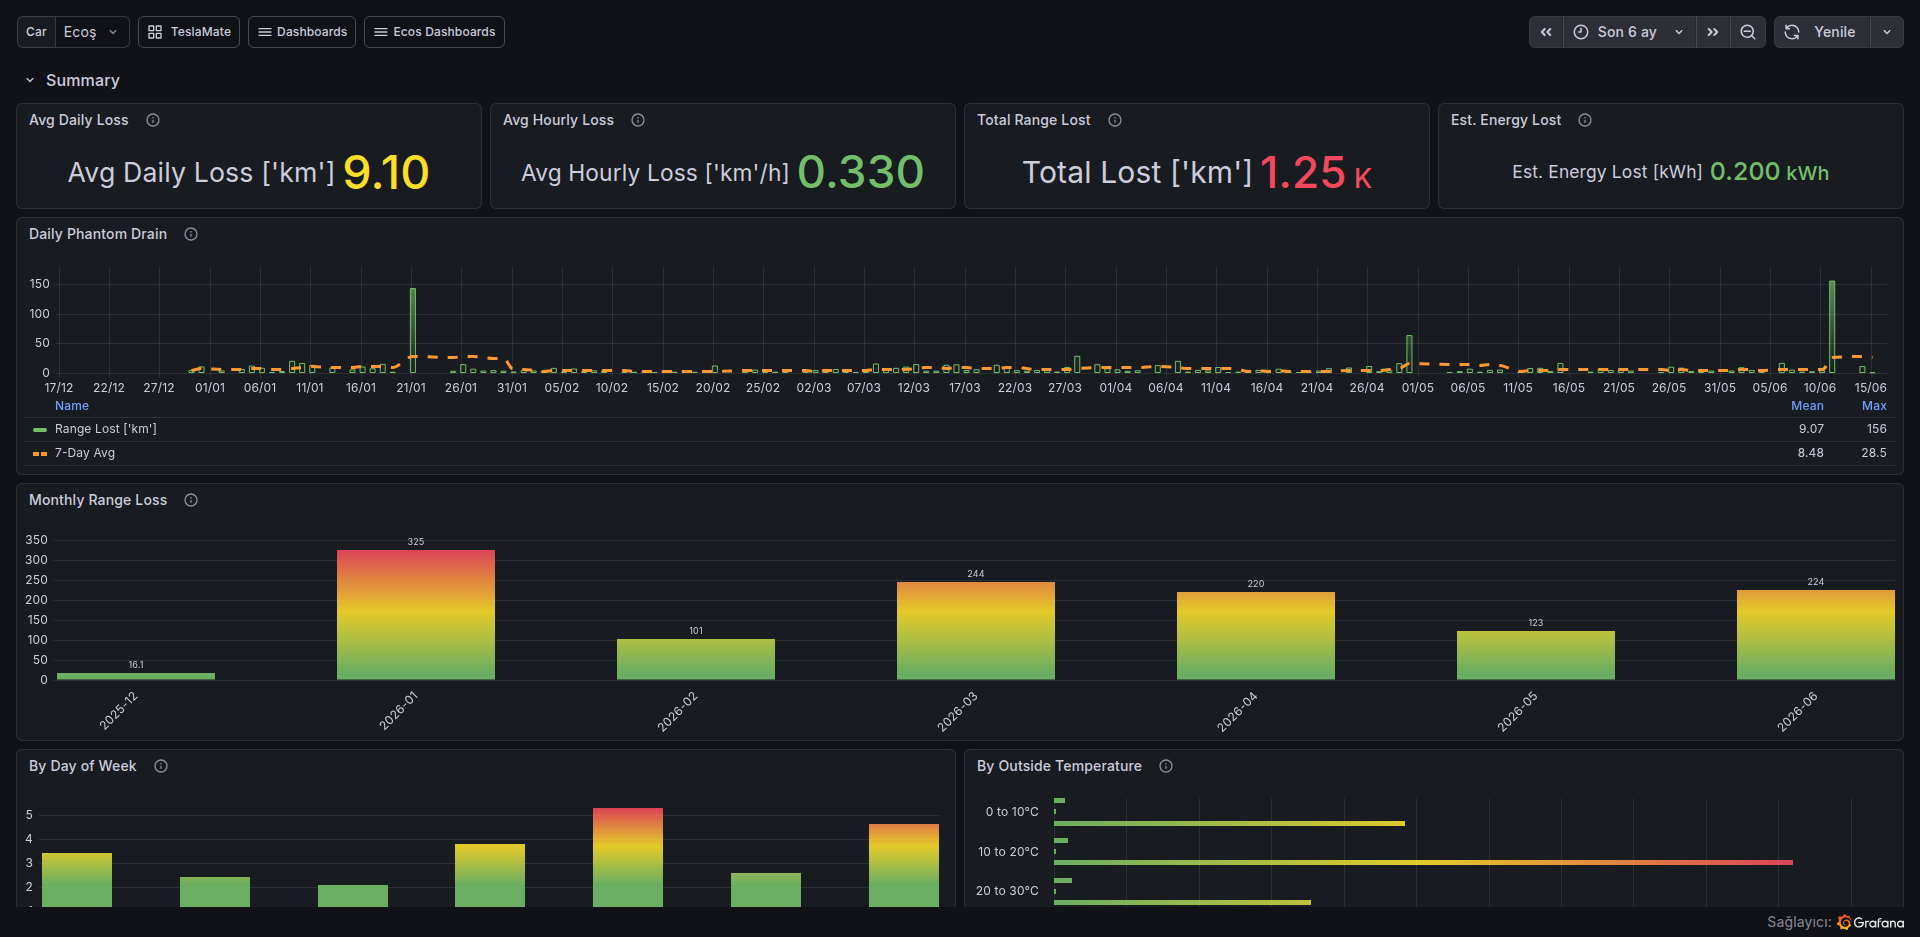
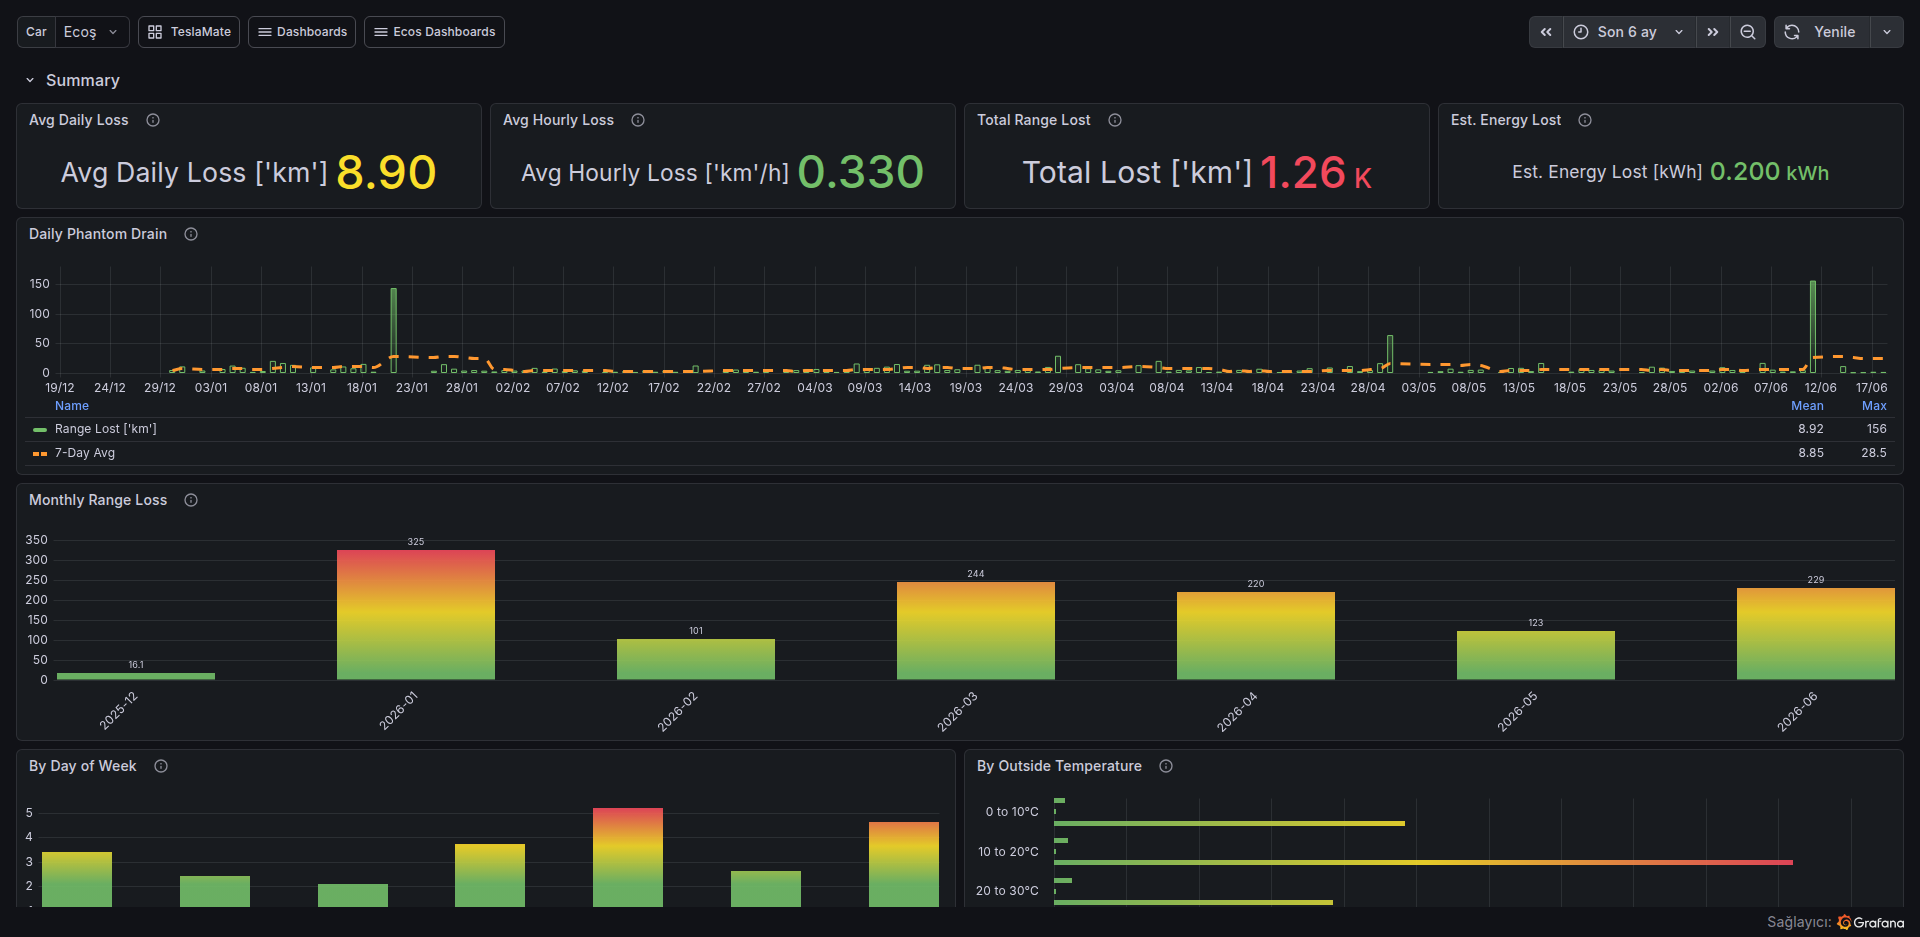
docs: update Phantom Drain README and screenshot with 18 panels

Changed region(s): [[0.0312, 0.3095, 0.9688, 0.4333], [0.0312, 0.1547, 0.25, 0.2166]]

diff --git a/README.md b/README.md
@@ -11,7 +11,7 @@ Each dashboard is a separate, focused view:
 
 | Dashboard | Panels | Purpose |
 |-----------|--------|---------|
-| **Phantom Drain** | 9 | Range and energy lost while parked, patterns by day-of-week and temperature |
+| **Phantom Drain** | 18 | Range and energy lost while parked, patterns by day-of-week and temperature, worst days, vehicle state timeline, seasonal comparison |
 | **Battery Capacity & Degradation** | 20 | Real kWh capacity estimation, degradation tracking, temperature/charger-type impact, projected range |
 | **Charging Efficiency & Details** | 15 | Charging efficiency, AC vs DC breakdowns, deep vs shallow charging, efficiency vs temperature, monthly stats, duration/SOC analysis, top/bottom sessions |
 | **Charging Habits** | 12 | Charging Pattern donut, Day/Hour heatmap, AC/DC energy trend, cost analysis, idle time, location breakdown |
@@ -33,8 +33,15 @@ Each dashboard is a separate, focused view:
 | Daily Phantom Drain | Time Series | Range lost between drives daily, with 7-day moving average |
 | Monthly Total Range Loss | Bar Chart | Bar chart comparing total loss per month |
 | Phantom Drain by Day of Week | Bar Chart | Average drain broken down by weekday |
-| Phantom Drain vs Outside Temperature | Heatmap | Correlation between temperature and drain rate |
+| Phantom Drain vs Outside Temperature | Bar Chart | Correlation between temperature and drain rate |
 | Drain Rate Distribution | Histogram | Distribution of range loss per parking interval |
+| Worst Drain Days | Table | Top 20 days with highest drain, hourly rate, and temperature |
+| Vehicle State Timeline | State Timeline | Online/asleep/offline states over time |
+| State Distribution | Pie Chart | Time spent in each vehicle state |
+| Drain vs Park Duration | Scatter | Correlation between park duration and range lost |
+| Monthly Drain Trend | Time Series | Monthly total with 3-month moving average |
+| Drain Rate by Hour of Day | Bar Chart | Average hourly drain by parking start hour |
+| Seasonal Drain Comparison | Bar Chart | Winter vs Spring vs Summer vs Fall drain rates |
 
 ### Battery Capacity & Degradation
 